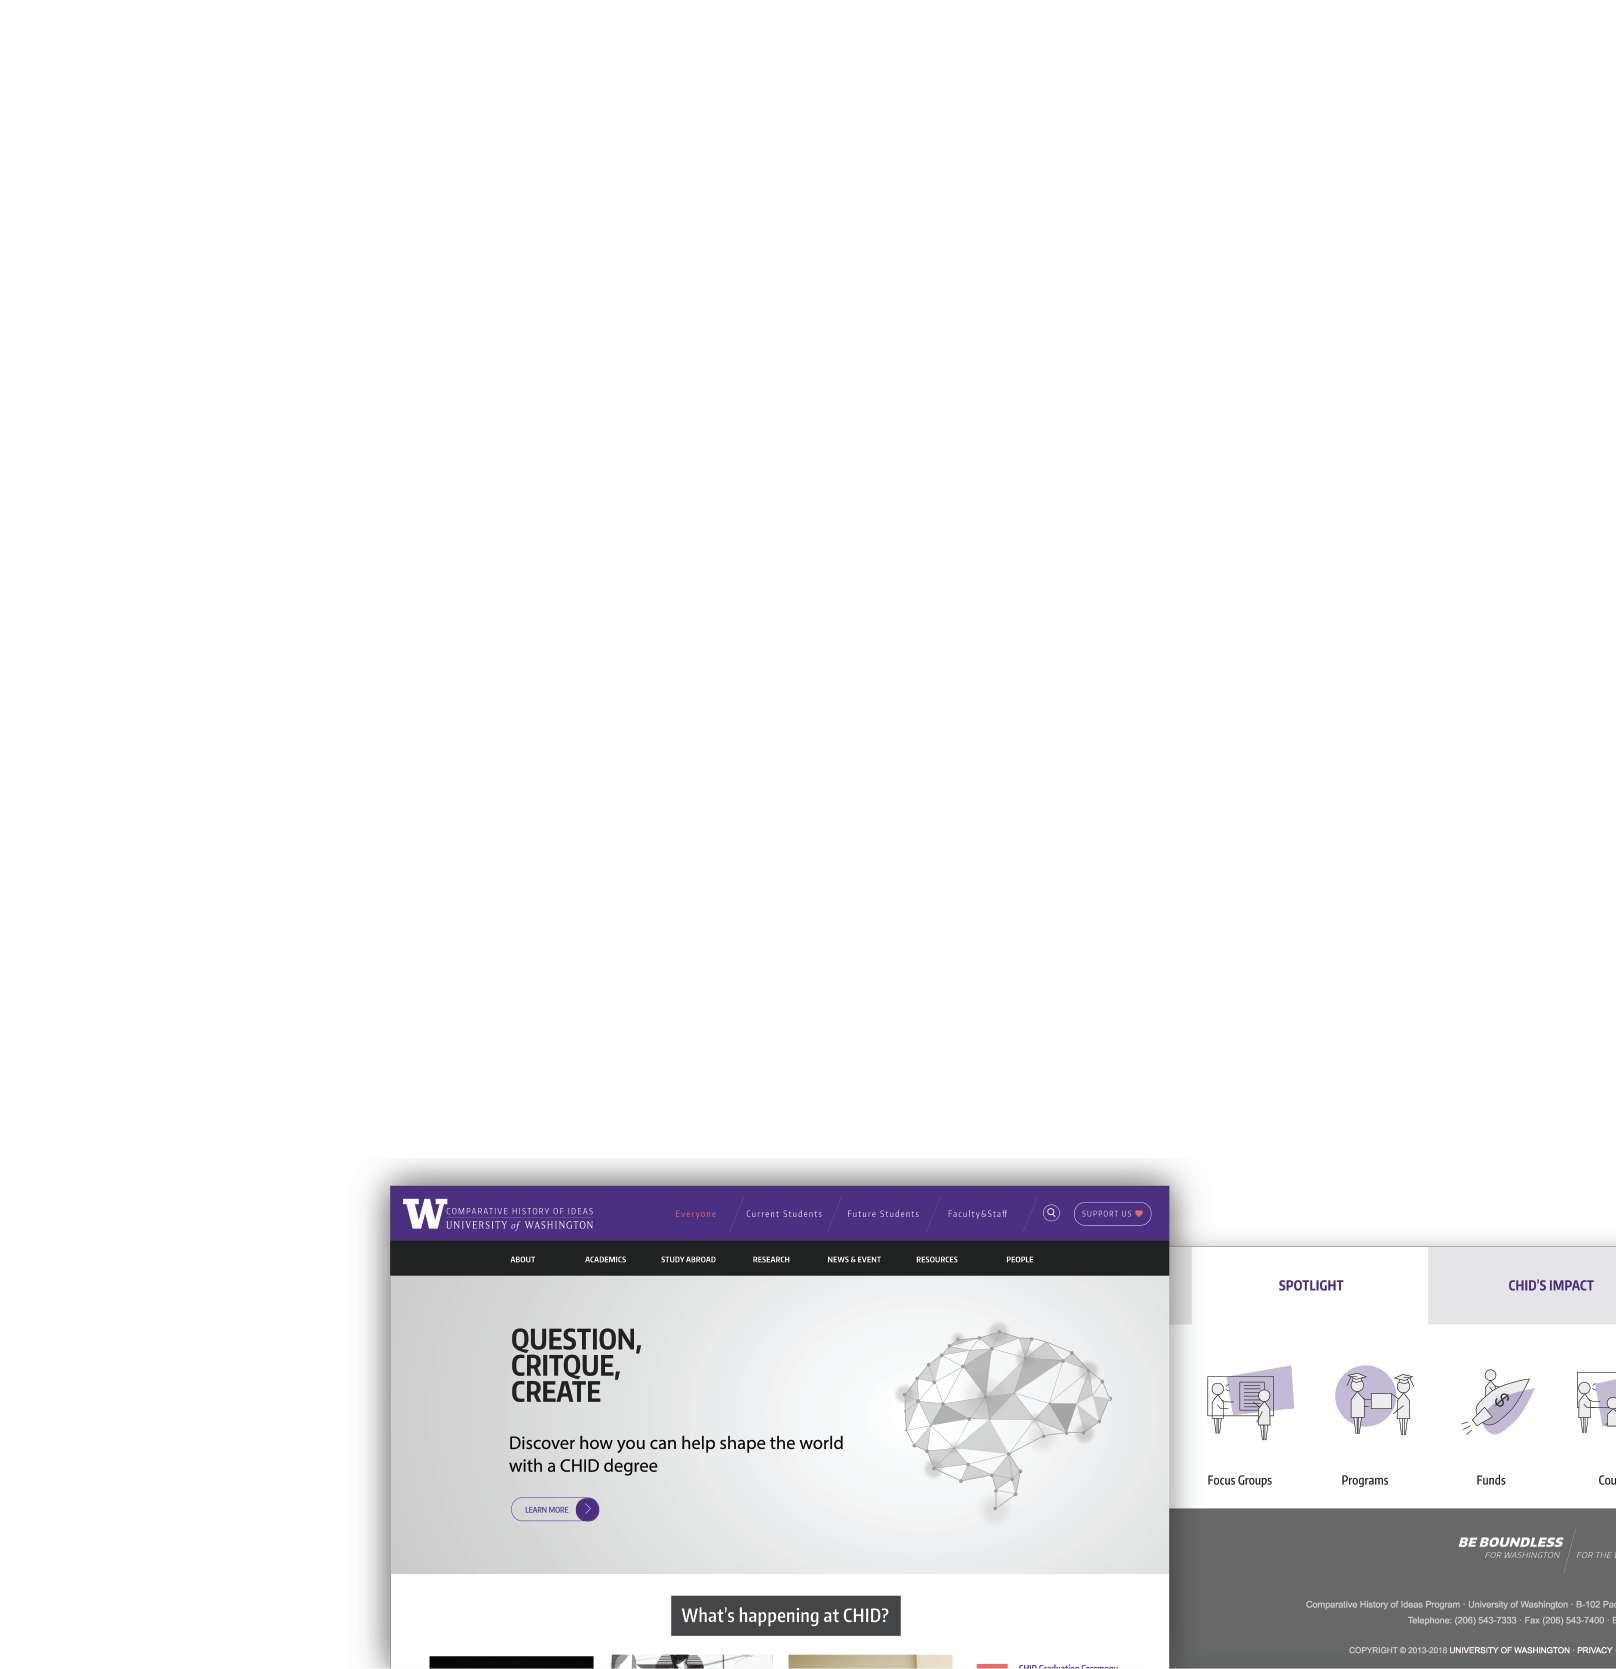
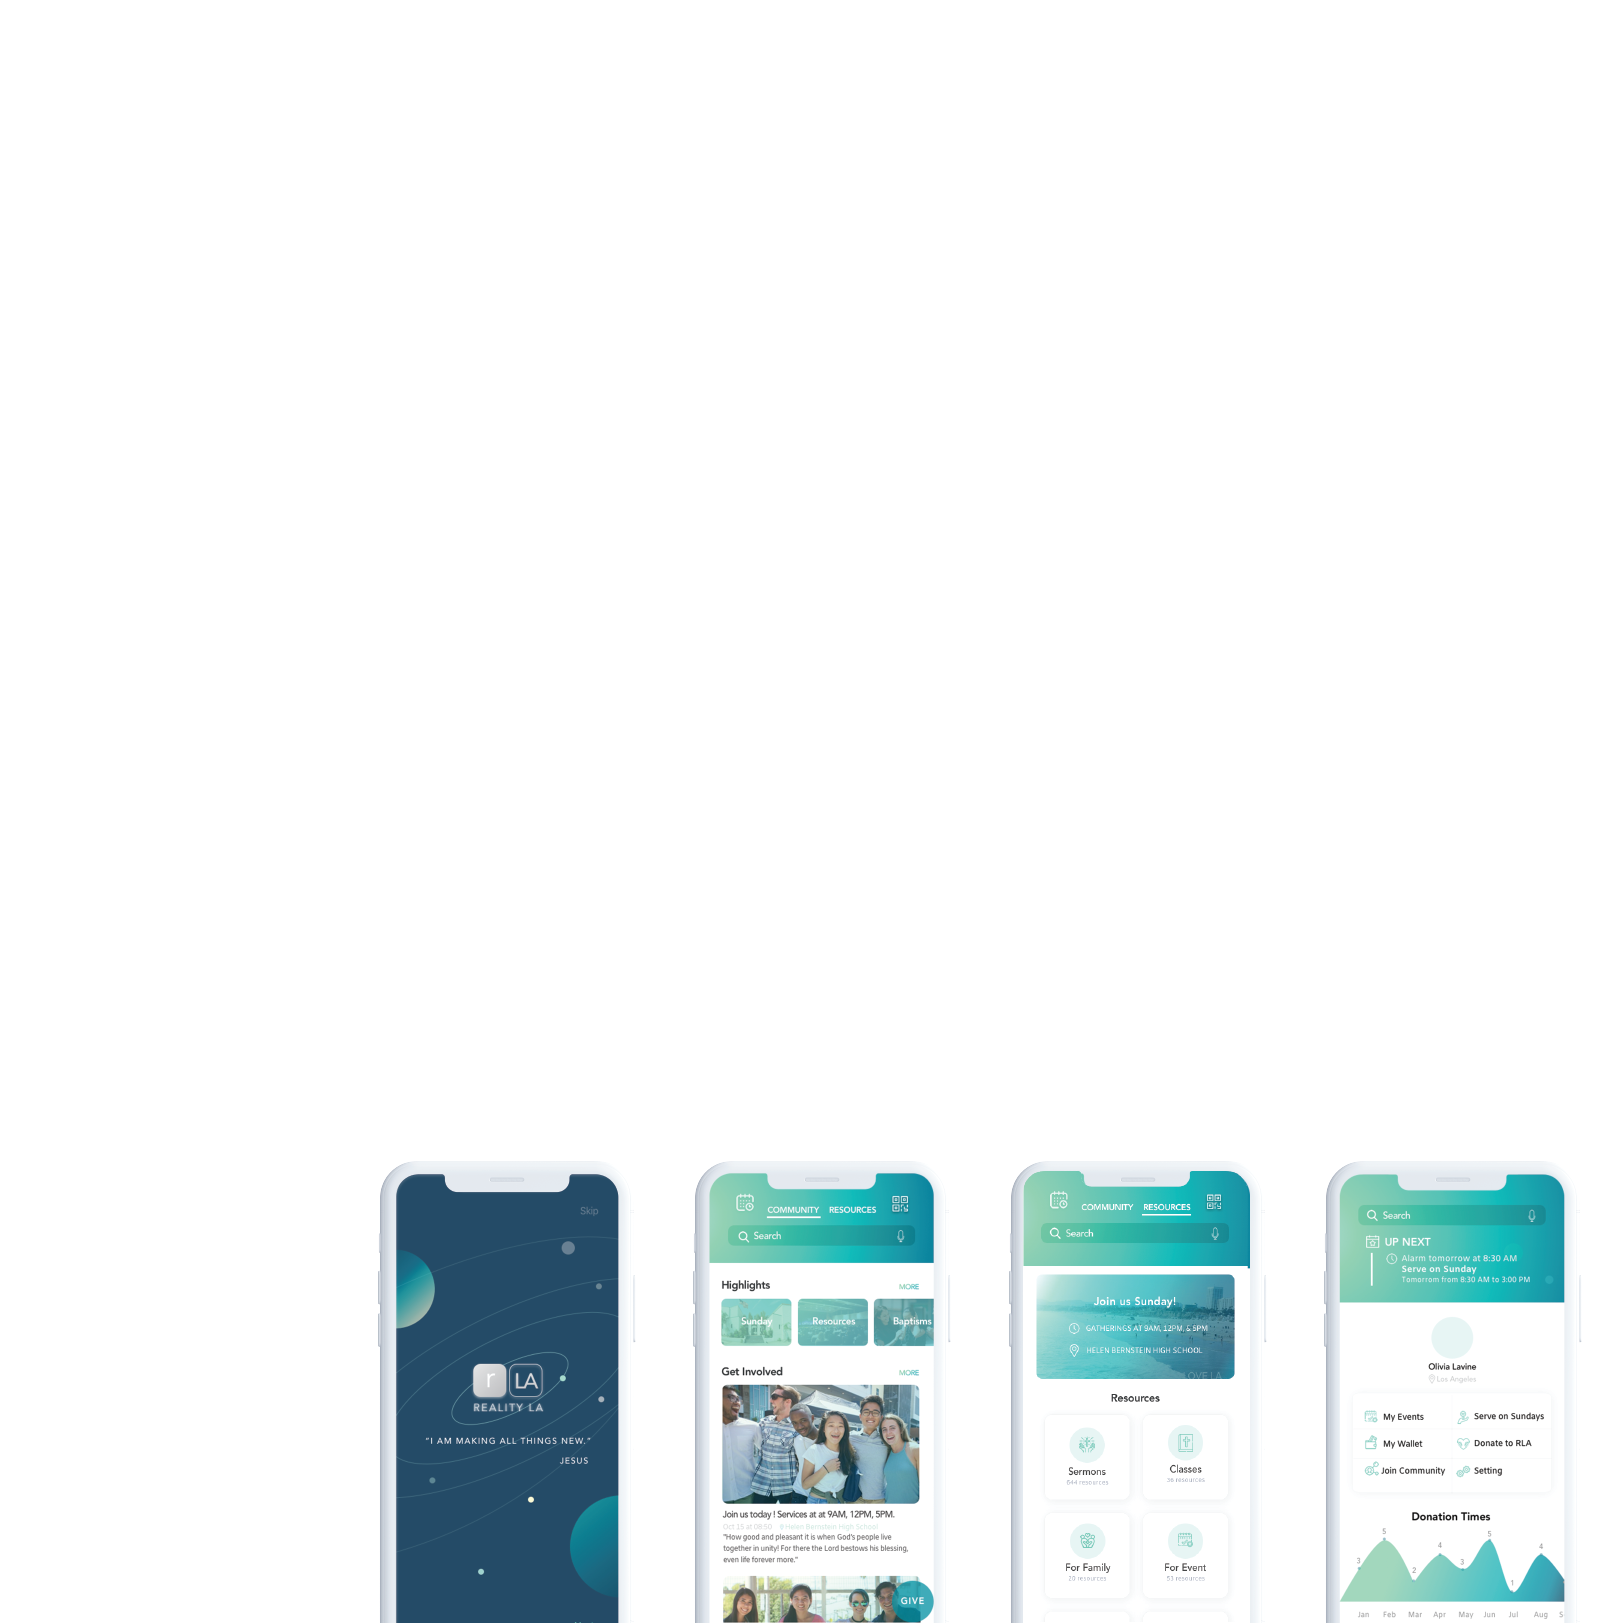
mobile

Changed region(s): [[0.2166, 0.6778, 1.0, 1.0]]

diff --git a/css/styles.css b/css/styles.css
@@ -1871,6 +1871,12 @@ font-weight: 500;
 
 @media screen and (max-width: 600px) {
 
+  .column {
+      float: left;
+      width: 100%;
+     padding: 10px;
+  }
+
 ._body-width{
   width: 100%;
   max-width: 1280px;
@@ -1885,11 +1891,11 @@ font-weight:400;
 color: #6E767F;
 }
 
-.column {
+/* .column {
     float: left;
     width: 30%;
     /* padding-right: 5%; */
-}
+} */
 
 .row1:after {
     content: "";
@@ -1928,7 +1934,7 @@ transform: translateX(-136px);
 .moreaboutme{
   float: center;
   width: 60%;
-margin-top:40%;
+/* margin-top:40%; */
 padding-top:10%;
 margin-left:25%;
 padding-bottom:10%;
@@ -2023,7 +2029,7 @@ display: none;
      -webkit-box-flex: 1;
      width: 30%;
      margin-left: 7%;
-     padding: 15% 5% 20% 2%;
+     padding: 6% 5% 20% 2%;
      z-index:1;
   }
 
@@ -2034,9 +2040,9 @@ display: none;
     padding-bottom:0%;
     -webkit-box-flex: 1;
     width: 40%;
-    margin-left: 10%;
+    margin-left: 8%;
     /* margin-right:5%; */
-    padding: 16% 5% 0% 2%;
+    padding: 11% 5% 0% 2%;
     z-index:1;
   }
 
@@ -2046,7 +2052,7 @@ display: none;
     padding-bottom:0%;
     -webkit-box-flex: 1;
     width: 30%;
-    margin-left: 10%;
+    margin-left: 8%;
     /* margin-right:5%; */
     padding: 40% 5% 0% 2%;
     z-index:1;
@@ -2231,7 +2237,7 @@ display: none;
 }
 
 .project3 {
- margin-top:22%;
+ margin-top:18%;
   z-index: 1;
   display: block;
   position: absolute;
@@ -2247,7 +2253,7 @@ display: none;
 }
 .project5 {
   z-index: 1;
-  margin-top:33%;
+  margin-top:20%;
   display: block;
   position: absolute;
   transform:translateX(0%);
